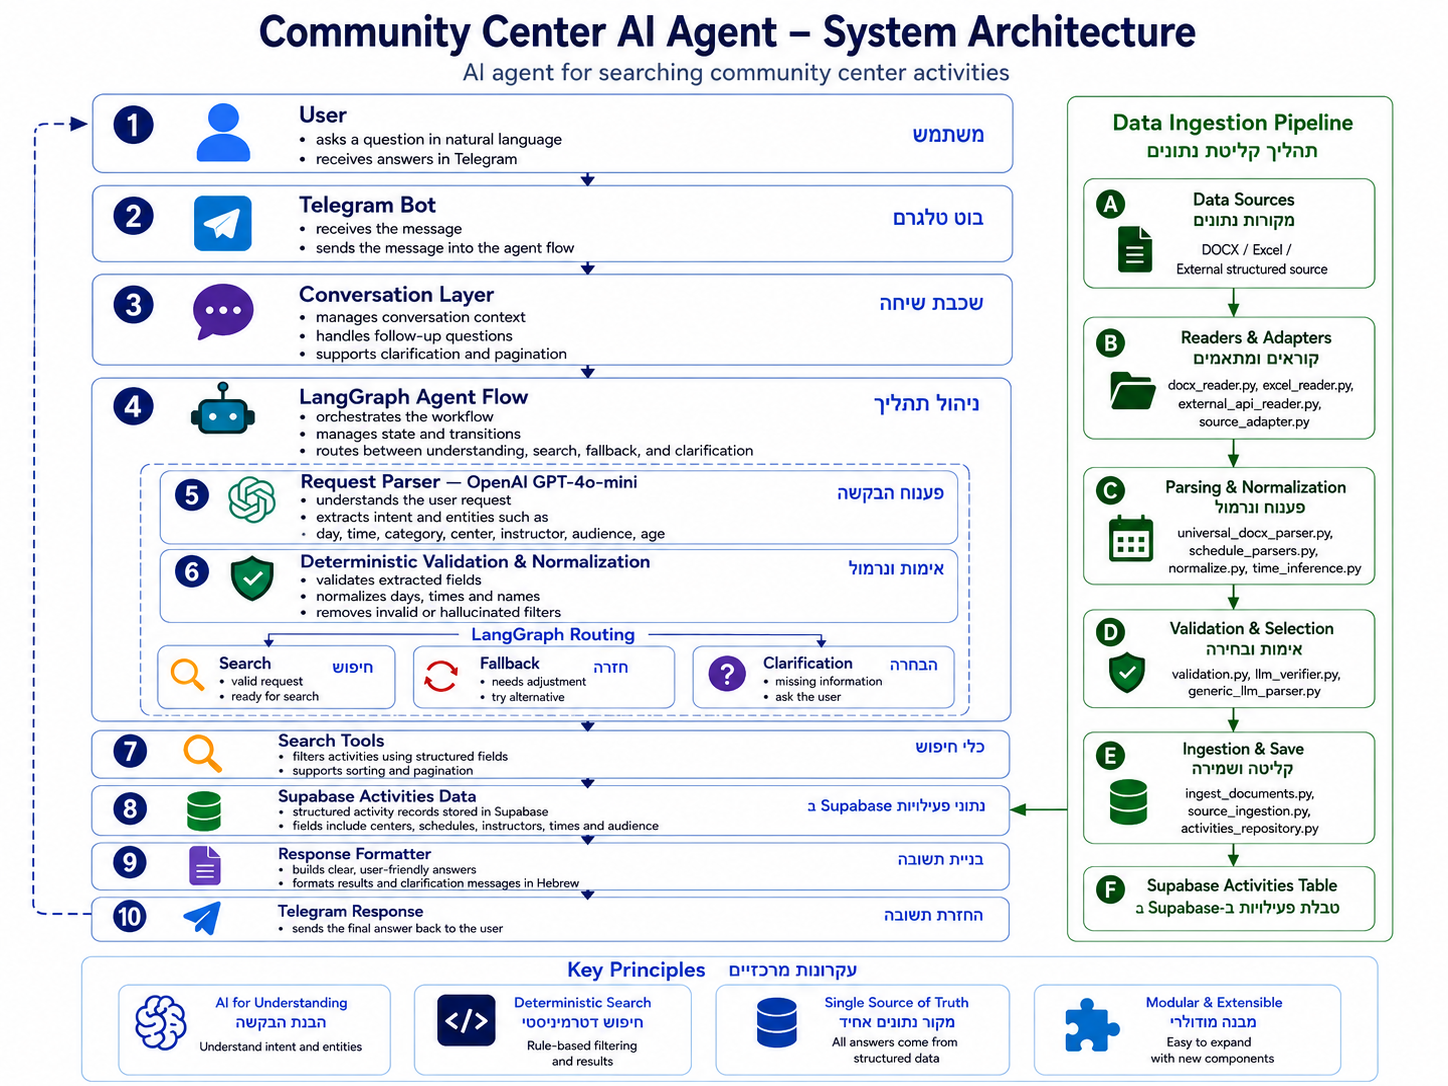
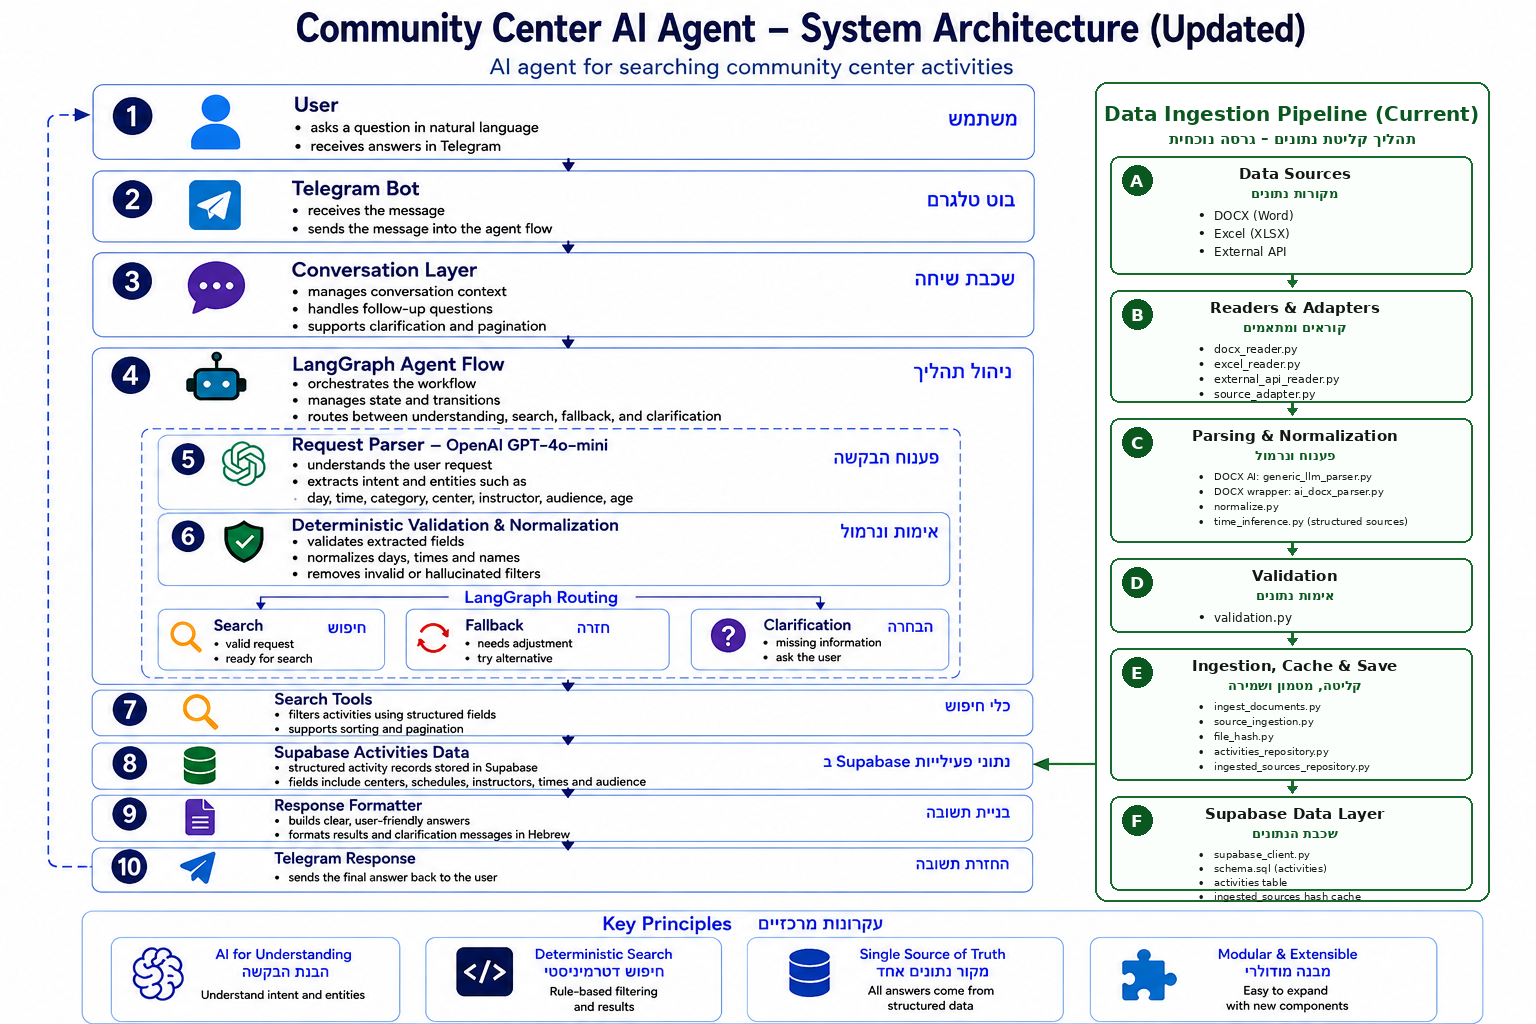
Save current ingestion and architecture updates

Changed region(s): [[0.0311, 0.0, 0.9634, 1.0]]

diff --git a/ingestion/ingest_documents.py b/ingestion/ingest_documents.py
@@ -554,3 +554,7 @@ def main() -> None:
 
 if __name__ == "__main__":
     main()
+
+# python -m ingestion.ingest_documents --save
+# python -m ingestion.ingest_documents --file "C:\...\file.xlsx" --save
+# python -m ingestion.ingest_documents --api-url "https://..." --save
